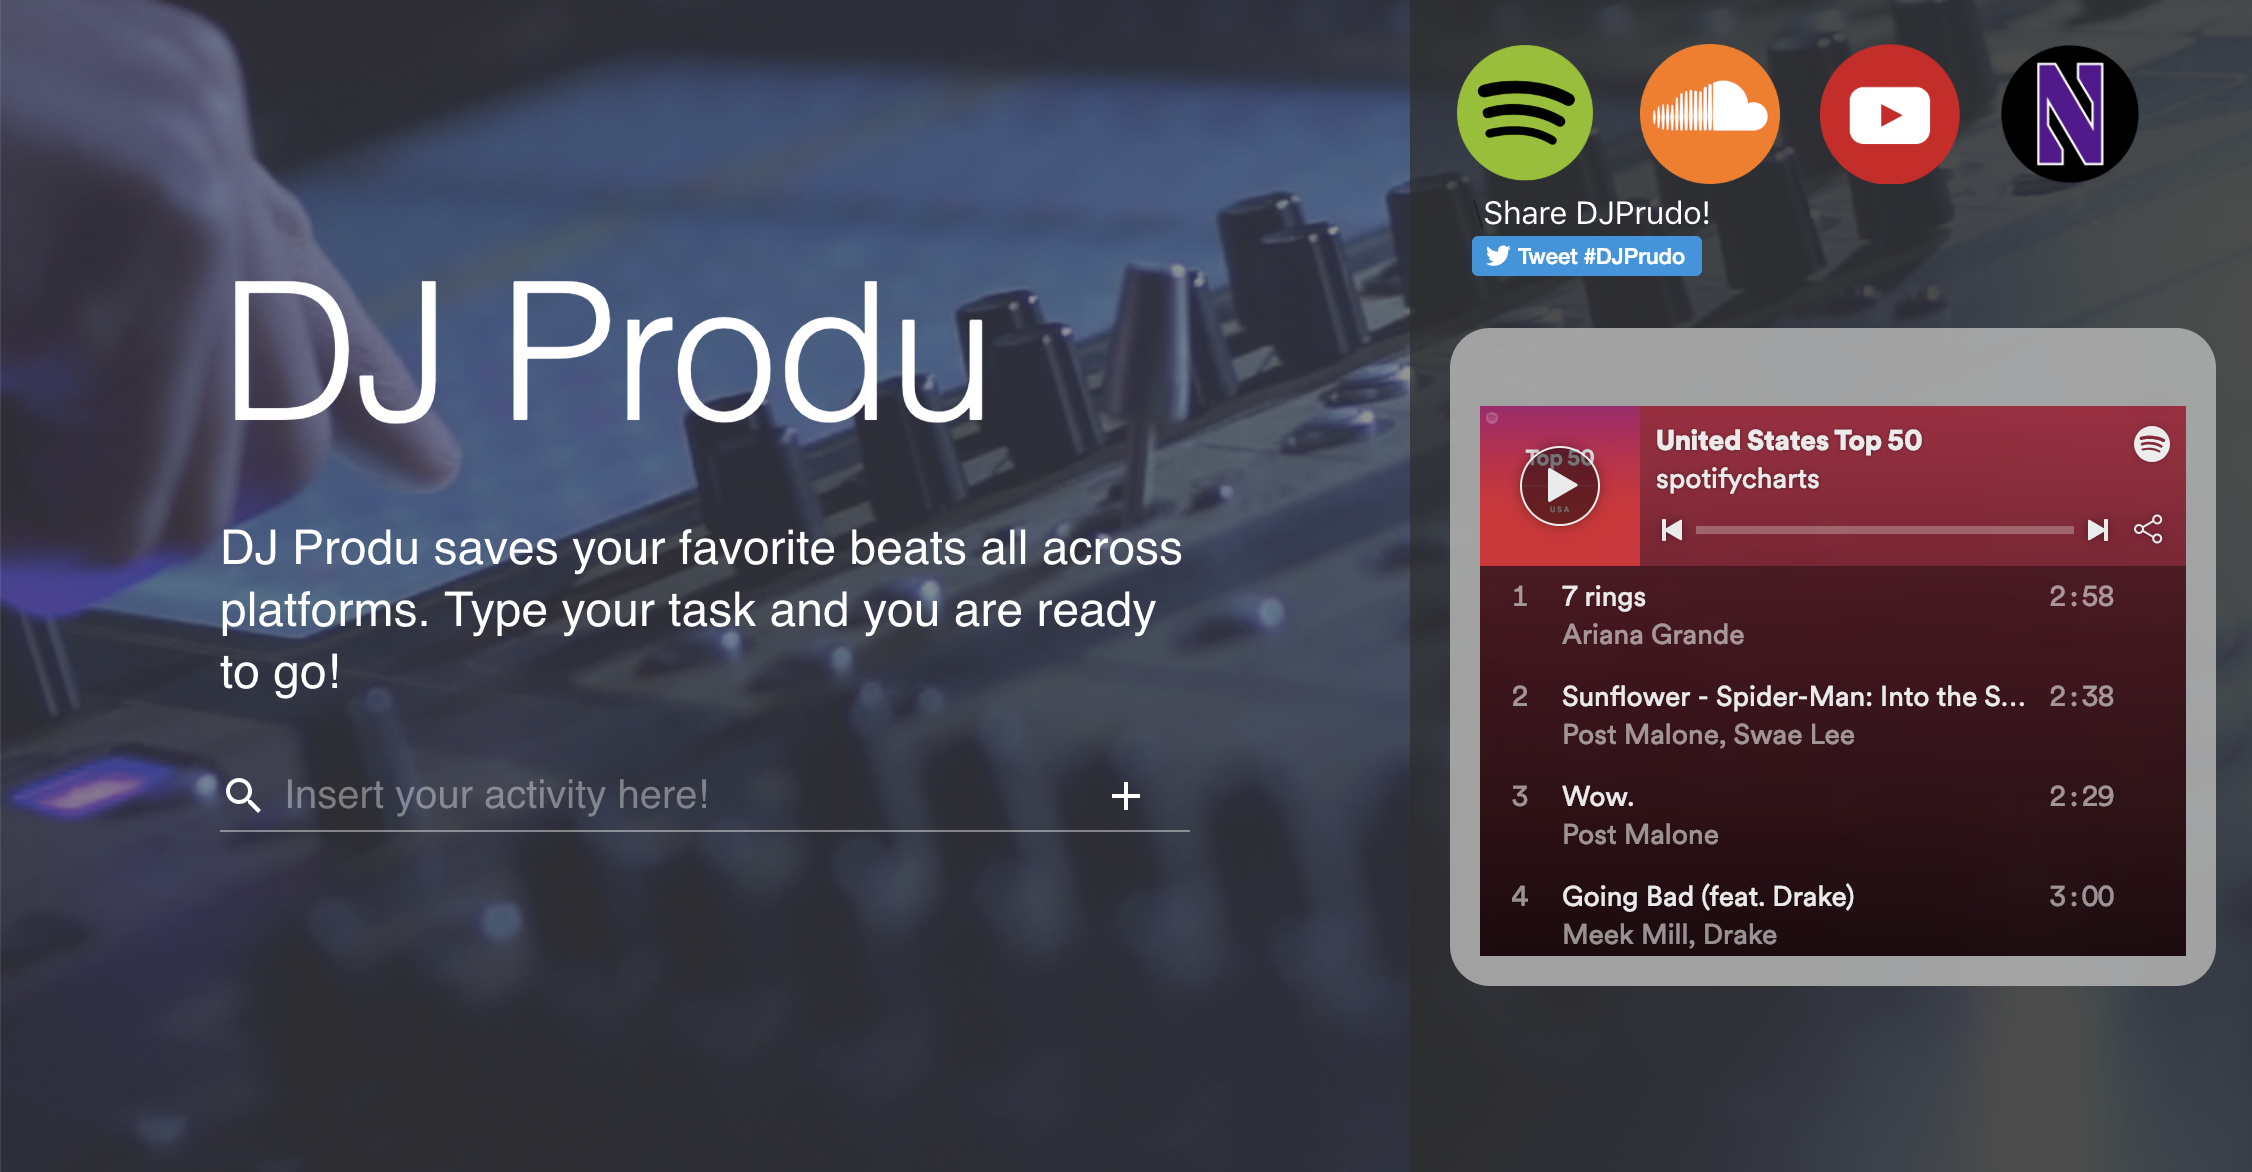
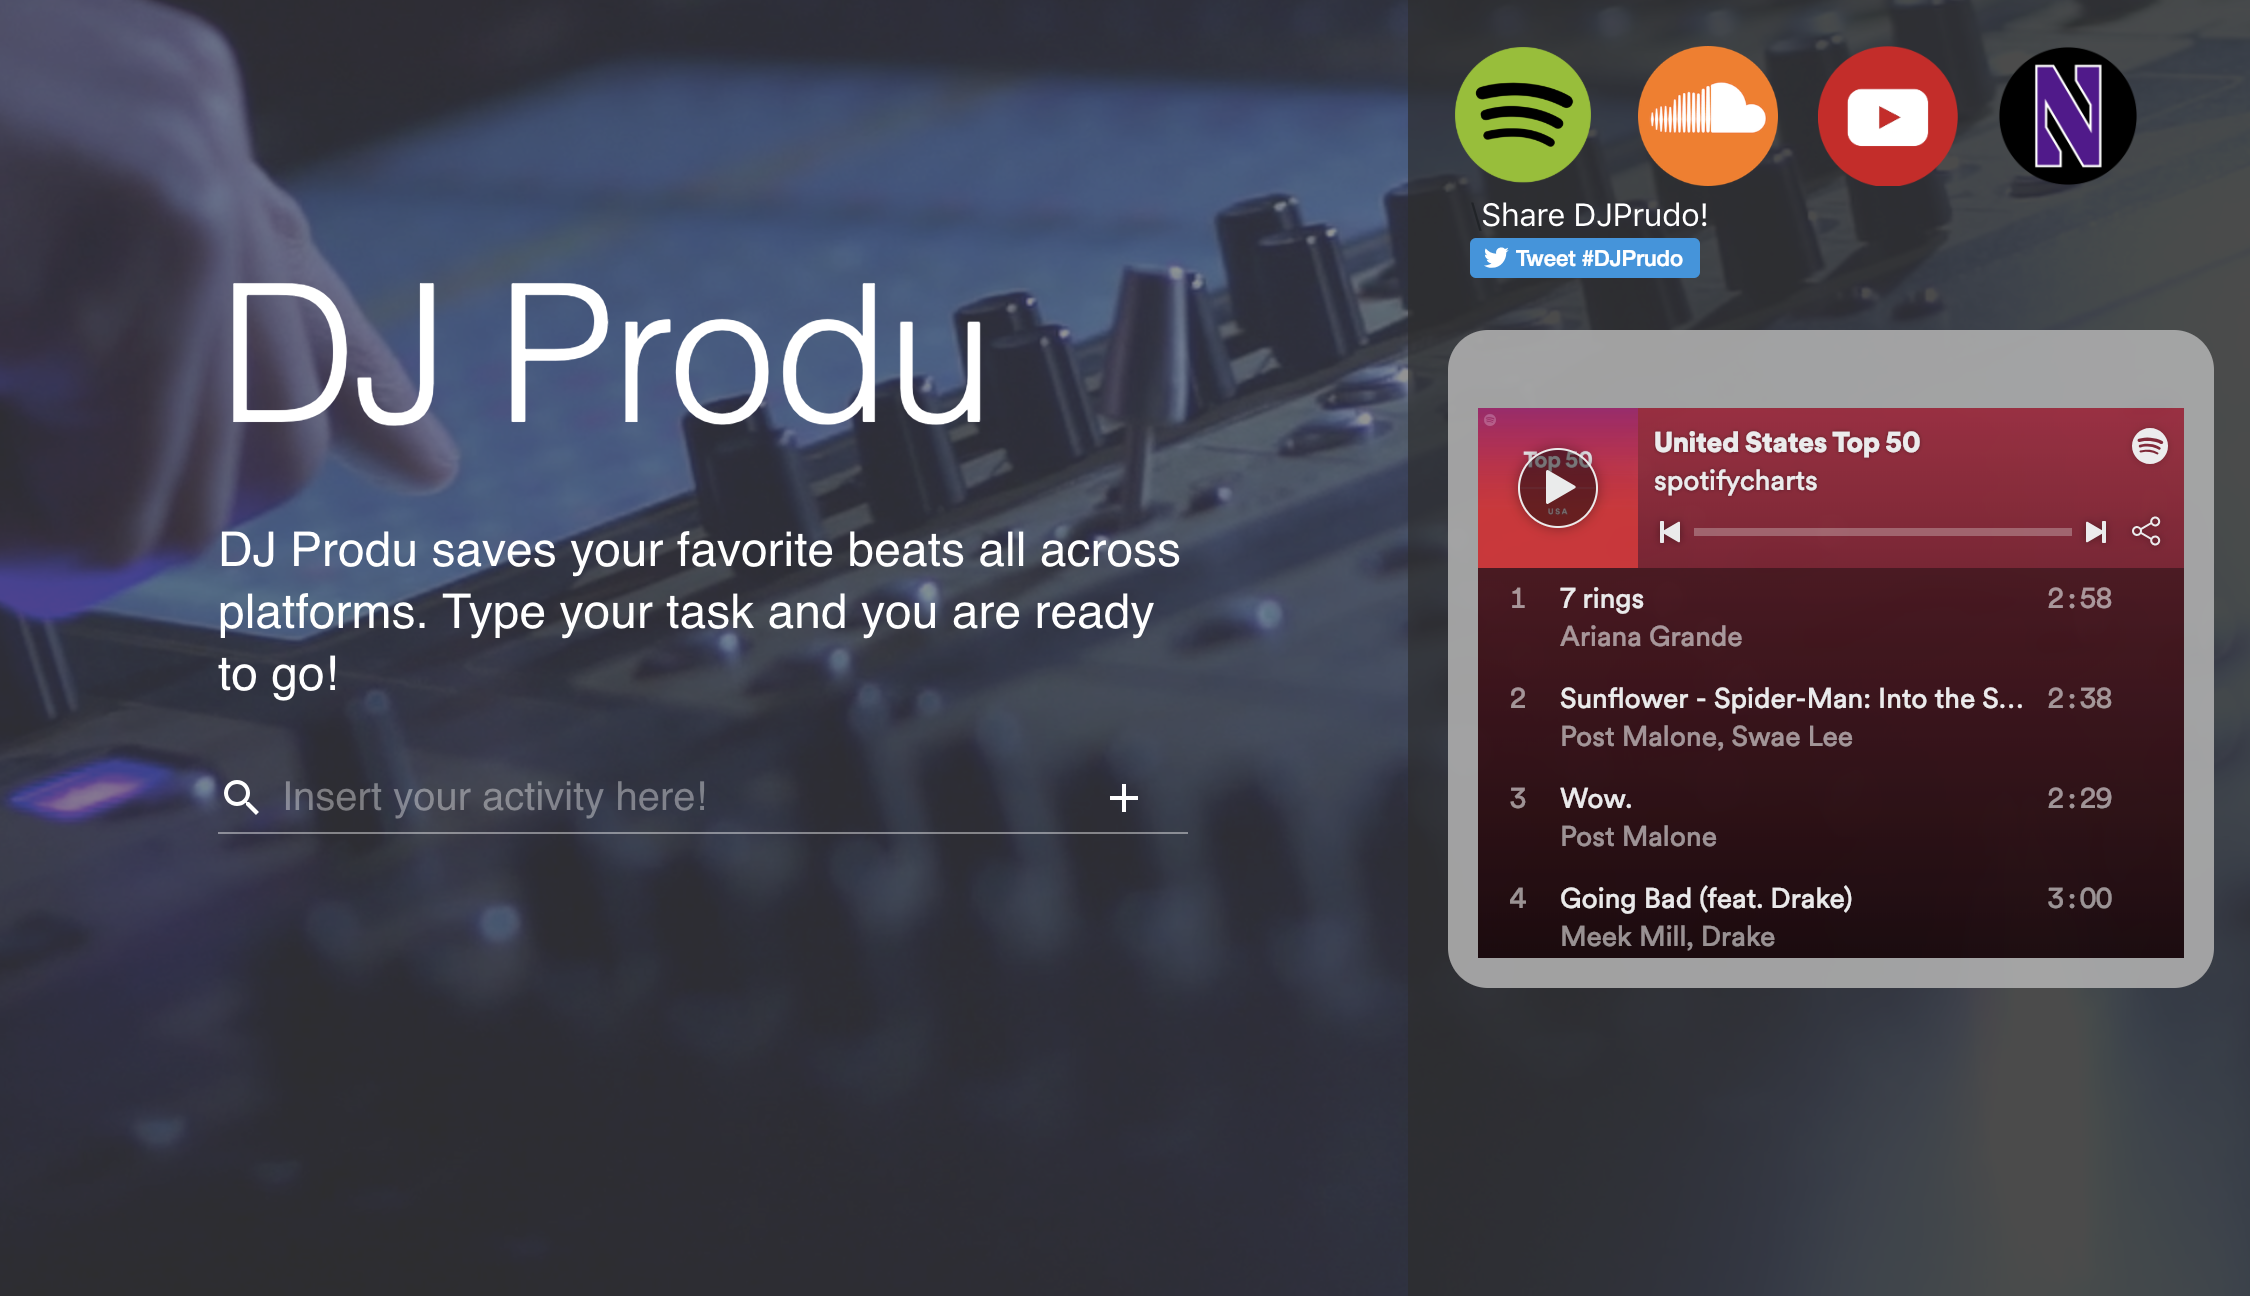
carousel is same height

diff --git a/index.html b/index.html
@@ -137,21 +137,21 @@
               <li data-target="#carouselExampleIndicators" data-slide-to="2"></li>
             </ol>
             <div class="carousel-inner" style="margin-left:15%;width:70%;">
-              <div class="carousel-item active">
+              <div style="height:60%" class="carousel-item active">
                 <img src="img/djprodu.png" class="d-block w-100" alt="..." style="opacity:0.3">
                 <div class="carousel-caption d-none d-md-block" style="color: #000000;">
                   <h5 style="font-weight: bold">DJProdu</h5>
                   <p>A music curation tool and the newest way to provide a mind-map of your favorite playlists across all platforms (Built in React)</p>
                 </div>
               </div>
-              <div class="carousel-item">
+              <div style="height:60%" class="carousel-item">
                 <img src="img/aquaflight.png" class="d-block w-100" alt="..." style="opacity:0.3">
                 <div class="carousel-caption d-none d-md-block" style="color: #000000;">
                   <h5 style="font-weight: bold">AquaFlights</h5>
                   <p>Ranking and Geovisualization of Inflight Wi-Fi Performance by Airline (Built using HTML/CSS)</p>
                 </div>
               </div>
-              <div class="carousel-item">
+              <div style="height:60%" class="carousel-item">
                 <img src="img/nearus.png" class="d-block w-100" alt="..." style="opacity:0.3">
                 <div class="carousel-caption d-none d-md-block" style="color: #000000;">
                 <h5 style="font-weight: bold">NearUs</h5>
